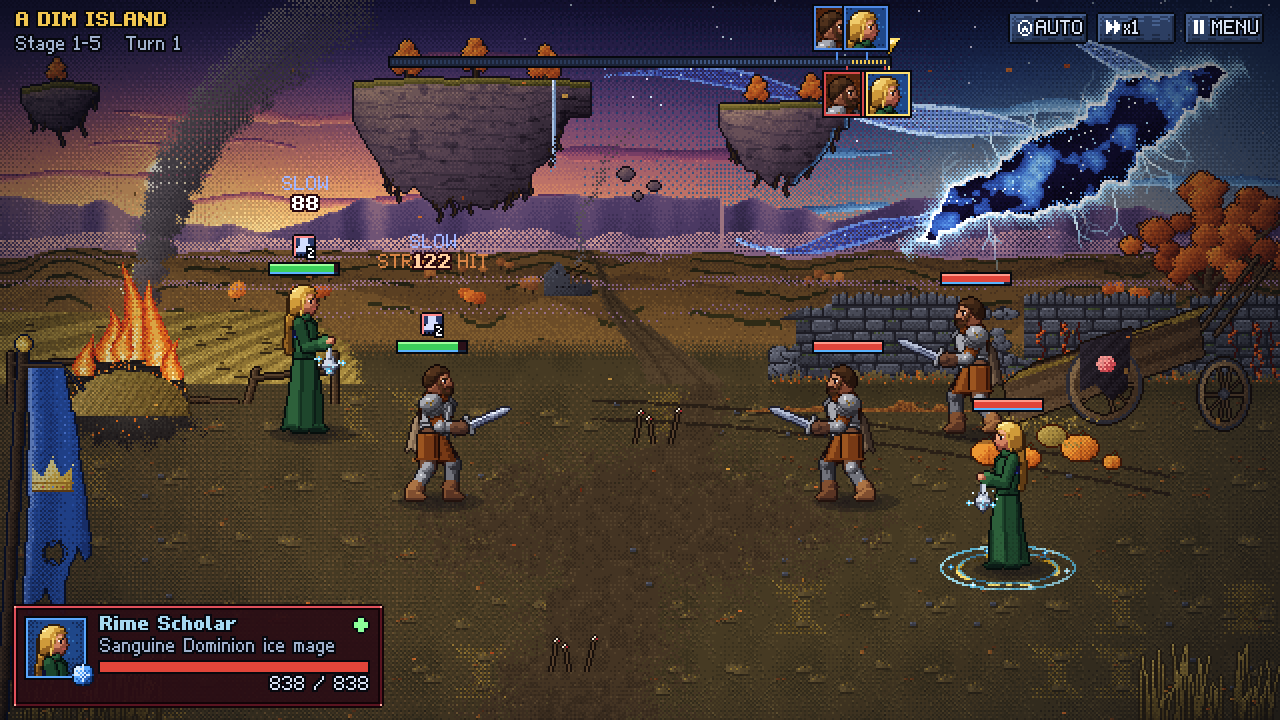
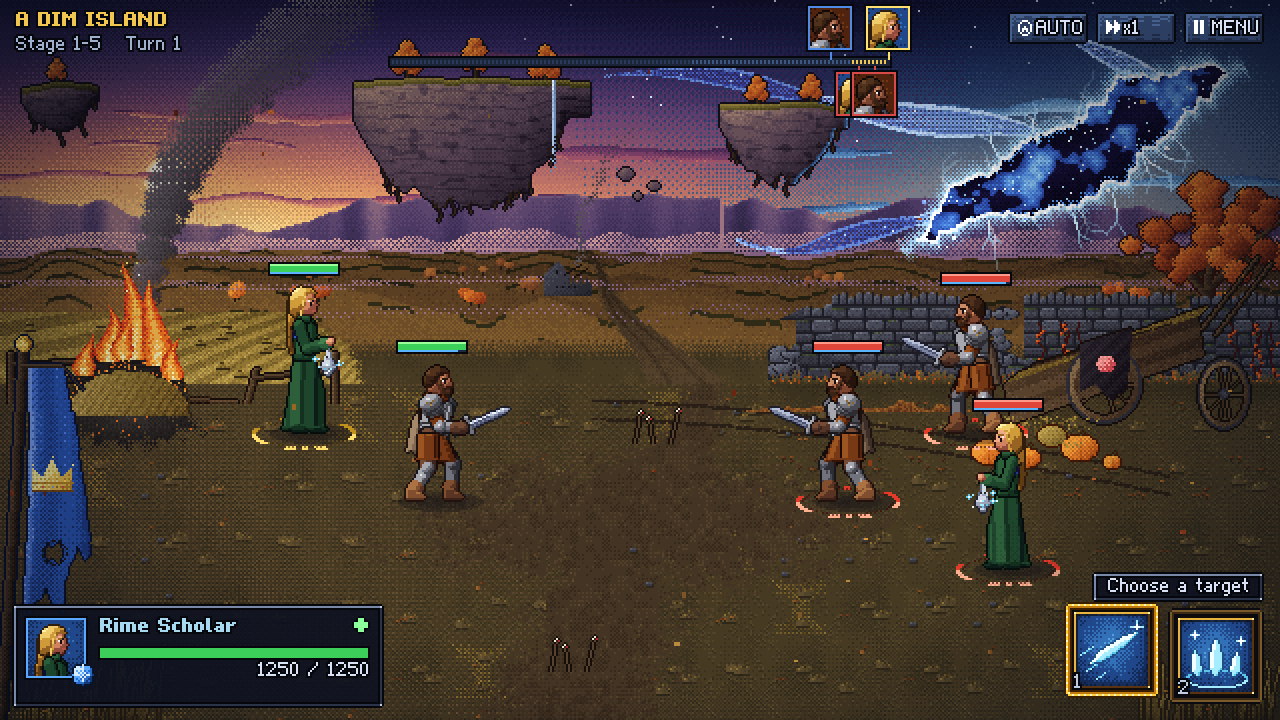
Champions carry no subtitle
Jakub (2026-10-11): the subtitles ("Azure Crown captain", "Sanguine
Dominion ice mage") are gone from ChampionDef and from everywhere they
showed: the battle panel (name, then the HP bar), the champion page, the
recruit ceremony, the boss intro, the team-select and battle tooltips, the
Academy demo line and the gallery. A content test keeps champions without
one; the new-champion templates no longer ask for a title.

diff --git a/src/game/screens/recruit.ts b/src/game/screens/recruit.ts
@@ -89,21 +89,20 @@ export class RecruitScreen extends BaseScreen {
     ctx.globalAlpha = a;
     this.a.font.draw(ctx, 'NEW CHAMPION', W / 2, 18, { color: '#fff6c0', gradient: '#f0a020', variant: 'display', align: 'center', outline: COLORS.ink, shadow: '#3a1e06' });
     ui.text(ctx, c.name, W / 2, 268, { color: c.color, variant: 'display', align: 'center' });
-    ui.text(ctx, c.title, W / 2, 288, { color: COLORS.dim, align: 'center' });
     const aff = AFFINITIES[c.affinity], fac = FACTIONS[c.faction];
     const line = `${rar.name}   ${aff.name}   ${c.role}   ${fac.name}`;
     const lw = ui.measure(line) + 30;
     let lx = Math.round(W / 2 - lw / 2);
-    ui.text(ctx, rar.name, lx, 302, { color: rar.color, variant: 'bold' });
+    ui.text(ctx, rar.name, lx, 290, { color: rar.color, variant: 'bold' });
     lx += ui.measure(rar.name, 'bold') + 8;
-    ui.blit(ctx, 'gem_' + c.affinity, lx, 301);
-    ui.text(ctx, aff.name, lx + 13, 302, { color: aff.color });
+    ui.blit(ctx, 'gem_' + c.affinity, lx, 289);
+    ui.text(ctx, aff.name, lx + 13, 290, { color: aff.color });
     lx += 13 + ui.measure(aff.name) + 8;
-    ui.blit(ctx, 'role_' + c.role, lx, 301);
-    ui.text(ctx, c.role, lx + 11, 302, { color: COLORS.text });
+    ui.blit(ctx, 'role_' + c.role, lx, 289);
+    ui.text(ctx, c.role, lx + 11, 290, { color: COLORS.text });
     lx += 11 + ui.measure(c.role) + 8;
-    ui.blit(ctx, 'emblem_' + c.faction, lx, 298);
-    ui.text(ctx, fac.name, lx + 17, 302, { color: fac.color });
+    ui.blit(ctx, 'emblem_' + c.faction, lx, 286);
+    ui.text(ctx, fac.name, lx + 17, 290, { color: fac.color });
     ctx.globalAlpha = 1;
     if (bt > 1400) {
       ui.button(ctx, 'view', W / 2 - 130, H - 34, 124, 24, 'VIEW CHAMPION', { click: () => this.app.router.champion(c.id), icon: 'mi_champions' });

diff --git a/tests/content.test.ts b/tests/content.test.ts
@@ -152,6 +152,8 @@ describe('design decisions', () => {
     expect(first.skills[2]?.target).toBe('enemies');
     expect(first.skills[2]?.statuses ?? []).toEqual([]);
     expect(first.passive).toBeUndefined();
+    // no subtitles (Jakub, 2026-10-11)
+    for (const c of CHAMPIONS) expect('title' in c, `${c.id} has a subtitle`).toBe(false);
     // hers: Pale Strike (plain), Rimebind (Slow on every enemy), no A3, Cold Rebuke
     expect(second.skills.map((k) => k.name)).toEqual(['Pale Strike', 'Rimebind']);
     expect(second.skills[0].statuses ?? []).toEqual([]);
@@ -228,7 +230,7 @@ describe('font', () => {
 
   it('has a glyph in regular and bold for every character of the game text', () => {
     const texts = [
-      ...CHAMPIONS.flatMap((c) => [c.name, c.title, c.lore, ...c.skills.flatMap((s) => [s.name, s.tag, s.desc]), c.passive?.name ?? '', c.passive?.desc ?? '']),
+      ...CHAMPIONS.flatMap((c) => [c.name, c.lore, ...c.skills.flatMap((s) => [s.name, s.tag, s.desc]), c.passive?.name ?? '', c.passive?.desc ?? '']),
       ...Object.values(STATUSES).flatMap((s) => [s.name, s.desc]),
       ...[RARITIES, AFFINITIES, FACTIONS].flatMap((m) => Object.values(m).flatMap((d) => [d.name, 'desc' in d ? d.desc : ''])),
       ...Object.values(ROLES).flatMap((r) => [r.id, r.desc]),

diff --git a/src/game/view/scene.ts b/src/game/view/scene.ts
@@ -210,7 +210,7 @@ export class BattleScene {
     );
     const boss = vs.find((v) => v.boss);
     if (boss && !this.demoSkill) {
-      this.hud.showTitle('BOSS', '#ffd0c0', '#c02020', `${boss.champion.name}, ${boss.champion.title}`);
+      this.hud.showTitle('BOSS', '#ffd0c0', '#c02020', boss.champion.name);
       void this.fx.spawn('taunt', boss.x, boss.head().y - 8, { layer: 'top' });
       this.shake(3);
       await this.clock.wait(1300);
@@ -869,7 +869,7 @@ export class BattleScene {
         const tip = () => ({
           title: v.champion.name,
           sub: `${v.champion.role}  -  HP ${Math.round(v.hp)}/${v.maxHp}  SPD ${this.battle.get(v.uid).stats.spd}`,
-          body: v.statuses.map((s) => `${STATUSES[s.id].name} (${s.turns})`).join(', ') || v.champion.title,
+          body: v.statuses.map((s) => `${STATUSES[s.id].name} (${s.turns})`).join(', ') || 'No buffs or debuffs.',
           color: v.champion.color,
         });
         const region = hud.regions.find((r) => r.x === b.x && r.y === b.y && r.click);

diff --git a/src/gallery.ts b/src/gallery.ts
@@ -44,7 +44,7 @@ function cell(grid: HTMLElement, label: string, w: number, h: number, draw: (g: 
 function heroes(a: Assets) {
   for (const h of CHAMPIONS) {
     const art = a.champions[h.id];
-    const grid = section(`${h.name}, ${h.title}`, `${RARITIES[h.rarity].name} ${h.role} - ${FACTIONS[h.faction].name}. Sprite height ${art.json.pivotY - art.json.frames['R/idle/0'][5]}px, frame box ${art.json.frameW}x${art.json.frameH}.`, h.color);
+    const grid = section(h.name, `${RARITIES[h.rarity].name} ${h.role} - ${FACTIONS[h.faction].name}. Sprite height ${art.json.pivotY - art.json.frames['R/idle/0'][5]}px, frame box ${art.json.frameW}x${art.json.frameH}.`, h.color);
     for (const [name, an] of Object.entries(art.json.anims)) {
       const total = an.ms.reduce((s, m) => s + m, 0);
       const skill = h.skills.find((s) => s.anim === name);

diff --git a/src/game/screens/team.ts b/src/game/screens/team.ts
@@ -97,7 +97,7 @@ export class TeamScreen extends BaseScreen {
       const c = champion(id);
       ui.blit(ctx, 'gem_' + c.affinity, x - ui.measure(c.name) / 2 - 13, y + 11);
       ui.text(ctx, c.name, x, y + 12, { color: c.color, align: 'center' });
-      ui.regions.push({ id: 'slot' + i, x: x - 24, y: y - 72, w: 48, h: 80, click: () => this.toggle(id), tip: () => ({ title: c.name, sub: 'Click to remove', body: c.title, color: c.color }) });
+      ui.regions.push({ id: 'slot' + i, x: x - 24, y: y - 72, w: 48, h: 80, click: () => this.toggle(id), tip: () => ({ title: c.name, sub: 'Click to remove', body: `${RARITIES[c.rarity].name} ${c.role}, ${AFFINITIES[c.affinity].name}`, color: c.color }) });
     }
     this.s.enemies.forEach((e, i) => {
       const [x, y] = sp.enemy[i];

diff --git a/src/game/data/champions/captain_gareth.ts b/src/game/data/champions/captain_gareth.ts
@@ -5,12 +5,11 @@ import { ChampionDef } from '../types';
 // Iron Blow (ATK Up on himself after the hit, never gated by a crit) and Wide
 // Sweep (damage only); no passive. His job is to teach how damage works.
 // Stand-ins until Jakub sets them: the stats (his crit chance sits at the
-// floor of the norms, as crit is not introduced on him), every multiplier,
-// the cooldowns and the title.
+// floor of the norms, as crit is not introduced on him), every multiplier and
+// the cooldowns. Champions carry no subtitle (Jakub, 2026-10-11).
 export const captainGareth: ChampionDef = {
   id: 'captain_gareth',
   name: 'Captain Gareth',
-  title: 'Azure Crown captain',
   role: 'Damage',
   rarity: 'elite',
   affinity: 'ember',

diff --git a/src/game/data/champions/rime_scholar.ts b/src/game/data/champions/rime_scholar.ts
@@ -6,11 +6,11 @@ import { ChampionDef } from '../types';
 // no A3, and the passive Cold Rebuke (below 35% HP, a critical hit on her
 // freezes its attacker for 1 turn; it has a cooldown). Her job is to teach
 // that statuses exist. Stand-ins until Jakub sets them: the stats, the
-// multipliers, Slow's 2 turns, Cold Rebuke's 3-turn rest and the title.
+// multipliers, Slow's 2 turns and Cold Rebuke's 3-turn rest. Champions carry
+// no subtitle (Jakub, 2026-10-11).
 export const rimeScholar: ChampionDef = {
   id: 'rime_scholar',
   name: 'Rime Scholar',
-  title: 'Sanguine Dominion ice mage',
   role: 'Support',
   rarity: 'elite',
   affinity: 'tide',

diff --git a/src/game/view/hud.ts b/src/game/view/hud.ts
@@ -158,9 +158,8 @@ export class Hud extends Ui {
     ctx.fillRect(x + 7, y + 7, 30, 30);
     blit(ctx, this.a.ui.img, p, x + 8, y + 8);
     blit(ctx, this.a.ui.img, this.part('gem_' + c.affinity), x + 30, y + 30);
-    this.text(ctx, c.name, x + 44, y + 6, { color: c.color, variant: 'bold' });
-    this.text(ctx, c.title, x + 44, y + 17, { color: COLORS.dim });
-    const bx = x + 44, by = y + 29, bw = 134;
+    this.text(ctx, c.name, x + 44, y + 7, { color: c.color, variant: 'bold' });
+    const bx = x + 44, by = y + 22, bw = 134;
     ctx.fillStyle = COLORS.ink;
     ctx.fillRect(bx - 1, by - 1, bw + 2, 7);
     ctx.fillStyle = '#2a1018';

diff --git a/src/game/screens/champion.ts b/src/game/screens/champion.ts
@@ -160,7 +160,6 @@ export class ChampionScreen extends BaseScreen {
     const px = 268, py = 38, pw = W - px - 8, ph = H - py - 8;
     ui.panel(ctx, 'gold', px, py, pw, ph);
     ui.text(ctx, c.name, px + 12, py + 10, { color: c.color, variant: 'display' });
-    ui.text(ctx, c.title, px + 12 + ui.measure(c.name, 'display') + 6, py + 16, { color: COLORS.dim });
     let lx = px + 12;
     const ly = py + 34;
     const chip = (part: string, label: string, color: string, tip: () => { title: string; body: string; color?: string }) => {

diff --git a/src/game/screens/academy.ts b/src/game/screens/academy.ts
@@ -103,7 +103,7 @@ export class AcademyScreen extends BaseScreen {
     if (this.ch.demo) {
       const d = this.ch.demo;
       const owner = champion(ownerOf(d.skill));
-      ui.text(ctx, `${owner.name}, ${owner.title}`, px + 14, py + ph - 24, { color: COLORS.faint });
+      ui.text(ctx, owner.name, px + 14, py + ph - 24, { color: COLORS.faint });
       // the button grows with its label (skill names vary in length)
       const label = d.label.toUpperCase();
       const bw = Math.max(144, ui.measure(label, 'bold') + 40);

diff --git a/.claude/skills/new-champion/templates/champion-data.template.ts b/.claude/skills/new-champion/templates/champion-data.template.ts
@@ -8,7 +8,6 @@ import { ChampionDef } from '../types';
 export const spearwarden: ChampionDef = {
   id: 'spearwarden',
   name: 'Template',
-  title: 'the Spear Warden',
   role: 'Damage', // Tank | Damage | Support (bruiser, control and the like are tags, not roles)
   rarity: 'heroic', // common | elite | heroic | mythic  (sets the stat budget)
   affinity: 'bloom', // ember > bloom > tide > ember

diff --git a/tests/fixtures.ts b/tests/fixtures.ts
@@ -29,7 +29,6 @@ export function fixture(id: string, o: { affinity?: Affinity; stats?: Partial<St
   return {
     id,
     name: id,
-    title: '',
     role: 'Damage',
     rarity: 'elite',
     affinity: o.affinity ?? 'ember',
